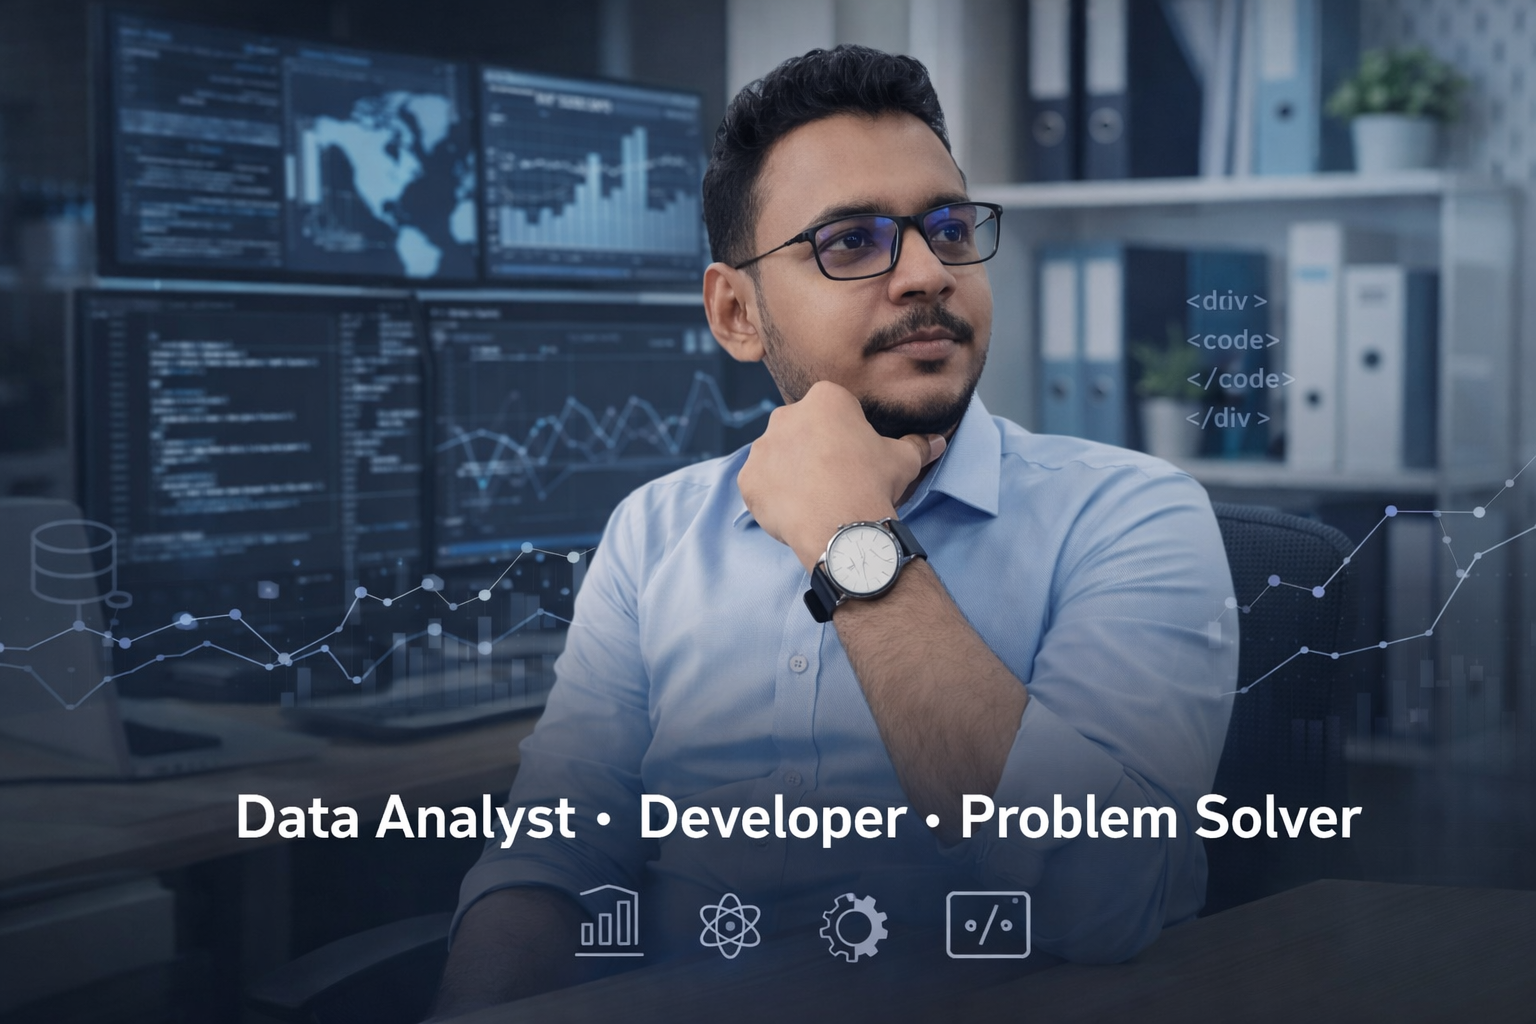
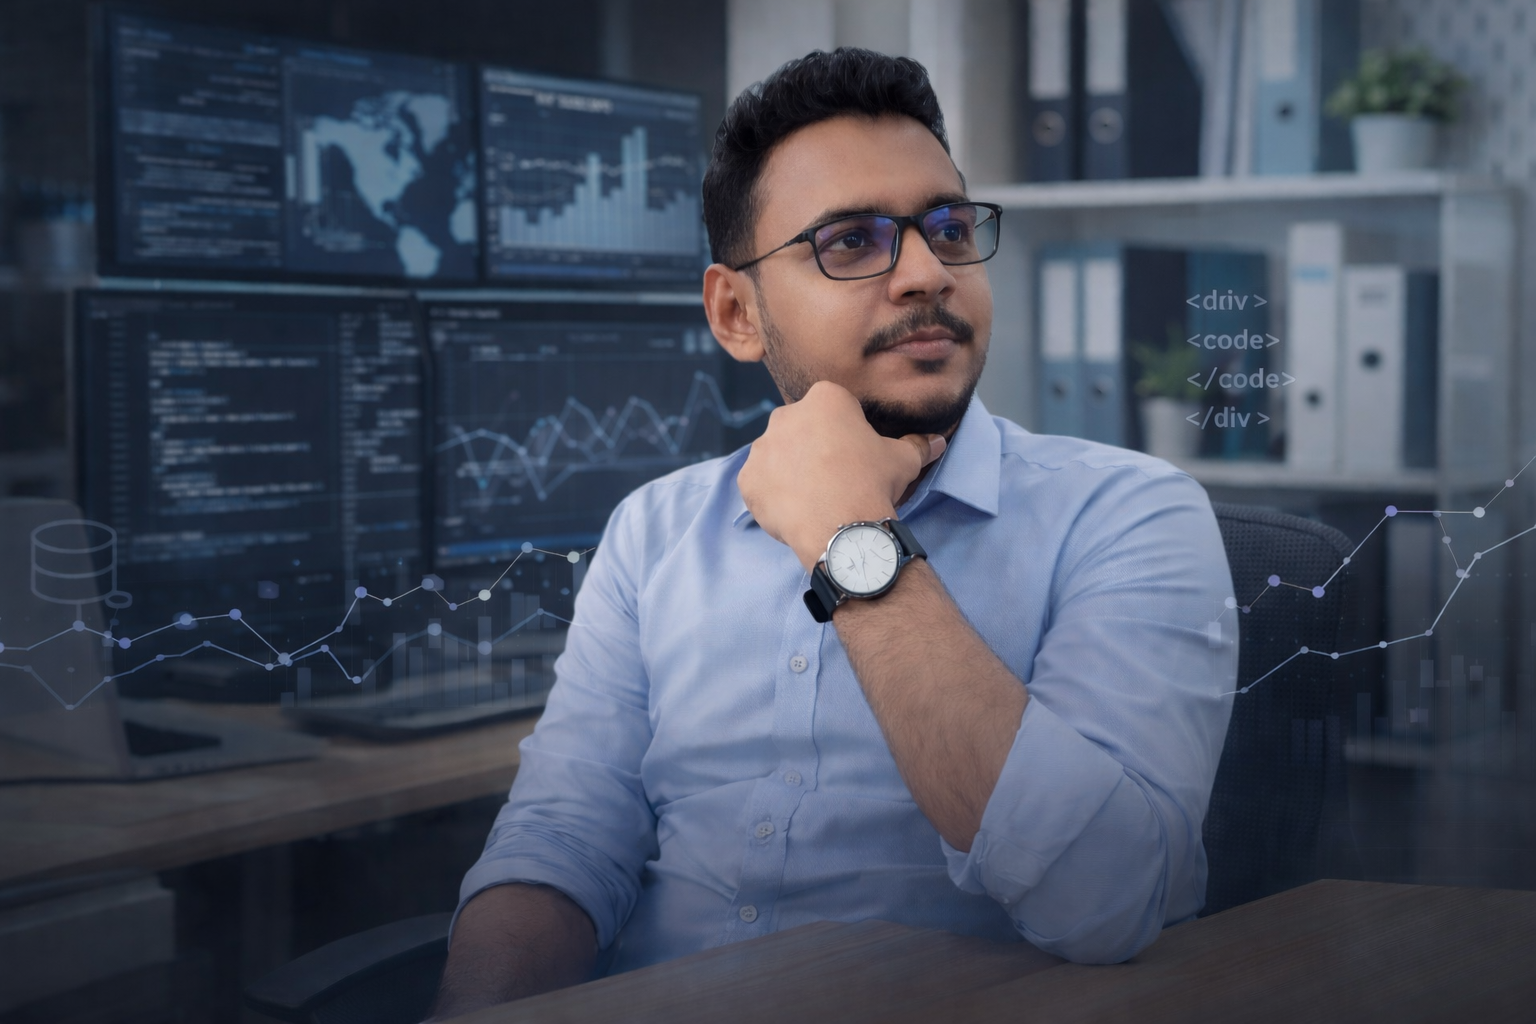
Update portfolio: Add Node.js/Azure skills, fix timeline layout, update social links

diff --git a/src/components/TimelineItem.jsx b/src/components/TimelineItem.jsx
@@ -1,4 +1,3 @@
-// src/components/TimelineItem.jsx
 import React from 'react';
 import { motion } from 'framer-motion';
 
@@ -11,13 +10,16 @@ const TimelineItem = ({ item, index }) => {
       whileInView={{ opacity: 1, x: 0 }}
       viewport={{ once: true }}
       transition={{ duration: 0.6 }}
-      className={`relative flex flex-col md:flex-row gap-8 ${
-        isEven ? 'md:flex-row' : 'md:flex-row-reverse'
-      }`}
+      className="relative flex flex-col md:flex-row gap-8 mb-8"
     >
-      <div className="flex-1 md:text-right">
-        <div className={`glass-card p-6 ${!isEven && 'md:text-left'}`}>
-          <div className="absolute left-1/2 transform -translate-x-1/2 -ml-3 w-6 h-6 rounded-full bg-gradient-to-r from-purple-600 to-blue-600 hidden md:block"></div>
+      {/* Circle icon in the middle - properly positioned */}
+      <div className="absolute left-1/2 transform -translate-x-1/2 hidden md:block z-10">
+        <div className="w-6 h-6 rounded-full bg-gradient-to-r from-purple-600 to-blue-600 ring-4 ring-purple-900/50"></div>
+      </div>
+      
+      {/* Left side for even items, right side for odd items */}
+      <div className={`flex-1 ${isEven ? 'md:text-right md:pr-12' : 'md:pl-12 md:ml-auto'}`}>
+        <div className="glass-card p-6 hover:shadow-xl transition-all duration-300">
           <h3 className="text-xl font-semibold text-white">{item.title}</h3>
           <p className="text-purple-400 text-sm mb-2">{item.period}</p>
           <div className="flex flex-wrap gap-2 mb-3">
@@ -27,15 +29,23 @@ const TimelineItem = ({ item, index }) => {
               </span>
             ))}
           </div>
-          <p className="text-gray-300 text-sm mb-2">{item.problem}</p>
-          <p className="text-gray-400 text-sm">{item.solution}</p>
+          <p className="text-gray-300 text-sm mb-2">
+            <span className="text-purple-400 font-semibold">Problem: </span>
+            {item.problem}
+          </p>
+          <p className="text-gray-300 text-sm mb-2">
+            <span className="text-purple-400 font-semibold">Solution: </span>
+            {item.solution}
+          </p>
           <div className="mt-3 pt-2 border-t border-white/10">
             <span className="text-purple-400 text-sm font-semibold">Impact: </span>
             <span className="text-gray-300 text-sm">{item.impact}</span>
           </div>
         </div>
       </div>
-      <div className="flex-1"></div>
+      
+      {/* Empty div for spacing on the other side */}
+      <div className="flex-1 hidden md:block"></div>
     </motion.div>
   );
 };

diff --git a/src/data/timelineData.js b/src/data/timelineData.js
@@ -1,27 +1,26 @@
-// src/data/timelineData.js
 export const timelineData = [
   {
-    title: 'Freelance Power Platform Developer',
+    title: 'Power Platform & Software Remote Developer',
+    period: '2025 - Present',
+    tools: ['Power Apps', 'Power Automate', 'Node.js', 'Azure'],
+    problem: 'Businesses needing custom automation and scalable solutions',
+    solution: 'Delivered 15+ custom applications, automation workflows, and cloud-native solutions',
+    impact: 'Average 65% efficiency improvement across client projects',
+  },
+  {
+    title: 'Data Analyst | Power Platform Developer',
     period: '2023 - Present',
-    tools: ['Power Apps', 'Power Automate', 'SharePoint', 'Power BI'],
-    problem: 'Businesses struggling with manual processes and disconnected data',
-    solution: 'Delivered 10+ custom applications and automation workflows',
-    impact: 'Average 60% efficiency improvement across client projects',
+    tools: ['Power BI', 'Power Apps', 'Power Automate', 'SharePoint', 'SQL'],
+    problem: 'Organizations needed data-driven insights and process automation',
+    solution: 'Built interactive dashboards, automated workflows, and custom business applications',
+    impact: 'Enabled data-driven decisions saving $1M+ annually, 80% process improvement',
   },
   {
-    title: 'Data Analytics Consultant',
-    period: '2022 - 2023',
-    tools: ['Power BI', 'Excel', 'SQL', 'Python'],
-    problem: 'Organizations lacked actionable insights from their data',
-    solution: 'Built interactive dashboards and automated reporting systems',
-    impact: 'Enabled data-driven decisions saving $500K+ annually',
-  },
-  {
-    title: 'Process Automation Specialist',
-    period: '2021 - 2022',
-    tools: ['Power Automate', 'SharePoint', 'Excel'],
-    problem: 'Repetitive tasks consuming 20+ hours weekly',
-    solution: 'Implemented end-to-end automation for approval workflows',
-    impact: 'Reduced processing time by 80% and eliminated errors',
+    title: 'Process Automation Expert',
+    period: '2020 - 2023',
+    tools: ['Power Automate', 'SharePoint', 'Excel', 'Python'],
+    problem: 'Repetitive manual tasks consuming 30+ hours weekly across departments',
+    solution: 'Implemented enterprise-wide automation for approval workflows, data processing, and reporting',
+    impact: 'Reduced processing time by 85%, eliminated manual errors, saved 2000+ hours annually',
   },
 ];

diff --git a/src/sections/Contact.jsx b/src/sections/Contact.jsx
@@ -1,4 +1,3 @@
-// src/sections/Contact.jsx
 import React, { useState } from 'react';
 import { motion } from 'framer-motion';
 import { Mail, Linkedin, Github, Send, User, MessageSquare } from 'lucide-react';
@@ -125,7 +124,7 @@ const Contact = () => {
               <h3 className="text-xl font-semibold text-white mb-4">Connect With Me</h3>
               <div className="space-y-4">
                 <a
-                  href="https://linkedin.com"
+                  href="https://www.linkedin.com/in/ankan901/"
                   target="_blank"
                   rel="noopener noreferrer"
                   className="flex items-center gap-3 text-gray-300 hover:text-white transition-colors group"
@@ -133,10 +132,10 @@ const Contact = () => {
                   <div className="p-2 rounded-lg bg-purple-600/20 group-hover:bg-purple-600/30 transition-colors">
                     <Linkedin size={20} />
                   </div>
-                  <span>LinkedIn Profile</span>
+                  <span>linkedin.com/in/ankan901</span>
                 </a>
                 <a
-                  href="https://github.com"
+                  href="https://github.com/Ankan901"
                   target="_blank"
                   rel="noopener noreferrer"
                   className="flex items-center gap-3 text-gray-300 hover:text-white transition-colors group"
@@ -144,13 +143,13 @@ const Contact = () => {
                   <div className="p-2 rounded-lg bg-purple-600/20 group-hover:bg-purple-600/30 transition-colors">
                     <Github size={20} />
                   </div>
-                  <span>GitHub Portfolio</span>
+                  <span>github.com/Ankan901</span>
                 </a>
                 <div className="flex items-center gap-3 text-gray-300">
                   <div className="p-2 rounded-lg bg-purple-600/20">
                     <Mail size={20} />
                   </div>
-                  <span>Ankan.Karmakar@outlook.com</span>
+                  <span>ankan.karmakar@example.com</span>
                 </div>
               </div>
             </div>

diff --git a/src/data/skillsData.js b/src/data/skillsData.js
@@ -1,7 +1,16 @@
-// src/data/skillsData.js
 import { BarChart3, AppWindow, Workflow, Code2 } from 'lucide-react';
 
 export const skillsData = [
+  {
+    category: 'App Development',
+    icon: AppWindow,
+    skills: [
+      { name: 'Power Apps', level: 88 },
+      { name: 'SharePoint', level: 85 },
+      { name: 'Node.js', level: 80 },
+      { name: 'Azure Web & Container Apps', level: 75 },
+    ],
+  },
   {
     category: 'Data Analytics',
     icon: BarChart3,
@@ -9,15 +18,7 @@ export const skillsData = [
       { name: 'Power BI', level: 90 },
       { name: 'Excel Advanced', level: 85 },
       { name: 'SQL', level: 75 },
-    ],
-  },
-  {
-    category: 'App Development',
-    icon: AppWindow,
-    skills: [
-      { name: 'Power Apps', level: 88 },
-      { name: 'SharePoint', level: 85 },
-      { name: 'Dataverse', level: 75 },
+      { name: 'Minitab', level: 80 },
     ],
   },
   {
@@ -25,8 +26,9 @@ export const skillsData = [
     icon: Workflow,
     skills: [
       { name: 'Power Automate', level: 87 },
-      { name: 'RPA', level: 70 },
-      { name: 'Logic Apps', level: 65 },
+      { name: 'Azure Logic Apps', level: 75 },
+      { name: 'Shell Scripting', level: 70 },
+      { name: 'UI Path', level: 65 },
     ],
   },
   {
@@ -35,7 +37,8 @@ export const skillsData = [
     skills: [
       { name: 'Python', level: 70 },
       { name: 'DAX', level: 80 },
-      { name: 'Power Query M', level: 85 },
+      { name: 'JavaScript', level: 75 },
+      { name: 'Node.js', level: 70 },
     ],
   },
 ];

diff --git a/src/data/projectsData.js b/src/data/projectsData.js
@@ -1,4 +1,3 @@
-// src/data/projectsData.js
 export const projectsData = [
   {
     id: 1,
@@ -35,14 +34,14 @@ export const projectsData = [
   },
   {
     id: 4,
-    title: 'Safety Validation App (Mobile)',
-    description: 'Mobile-responsive Power Apps solution for field safety validation checks with offline capabilities.',
-    techStack: ['Power Apps', 'Dataverse', 'Power Automate'],
-    impact: 'Real-time validation, 60% faster field inspections',
+    title: 'Node.js with Azure Container App - Automated PDF Report System',
+    description: 'Enterprise-grade automated PDF reporting system for machine risk assessment, deployed on Azure Container Apps with Node.js backend.',
+    techStack: ['Node.js', 'Azure Container Apps', 'Docker', 'PDF Generation'],
+    impact: 'Automated report generation, 70% faster document processing, real-time risk assessment',
     liveDemo: '#',
     github: '#',
-    challenge: 'Field teams needed offline access for safety checks in remote locations.',
-    solution: 'Built offline-capable canvas app with sync capabilities and automated alert system.',
+    challenge: 'Manual PDF report creation for machine risk assessments was slow and inconsistent.',
+    solution: 'Built Node.js microservice with PDF generation, containerized with Docker, deployed on Azure Container Apps with auto-scaling.',
   },
   {
     id: 5,

diff --git a/src/sections/Hero.jsx b/src/sections/Hero.jsx
@@ -75,7 +75,7 @@ const Hero = () => {
 
               <div className="flex justify-center lg:justify-start gap-6 mt-12">
                 <a
-                  href="https://linkedin.com"
+                  href="https://www.linkedin.com/in/ankan901/"
                   target="_blank"
                   rel="noopener noreferrer"
                   className="text-gray-400 hover:text-white transition-colors"
@@ -83,7 +83,7 @@ const Hero = () => {
                   <Linkedin size={24} />
                 </a>
                 <a
-                  href="https://github.com"
+                  href="https://github.com/Ankan901"
                   target="_blank"
                   rel="noopener noreferrer"
                   className="text-gray-400 hover:text-white transition-colors"

diff --git a/src/data/servicesData.js b/src/data/servicesData.js
@@ -1,5 +1,4 @@
-// src/data/servicesData.js
-import { LayoutDashboard, Sparkles, Workflow } from 'lucide-react';
+import { LayoutDashboard, Sparkles, Workflow, Server } from 'lucide-react';
 
 export const servicesData = [
   {
@@ -19,5 +18,11 @@ export const servicesData = [
     title: 'Process Automation',
     description: 'End-to-end automation solutions using Power Automate',
     features: ['Approval workflows', 'Email automation', 'Data synchronization', 'Scheduled tasks'],
+  },
+  {
+    icon: Server,
+    title: 'Node.js & Azure App Development',
+    description: 'Scalable cloud-native applications and containerized solutions',
+    features: ['Node.js APIs', 'Azure Container Apps', 'Microservices', 'Cloud deployment'],
   },
 ];

diff --git a/src/sections/Experience.jsx b/src/sections/Experience.jsx
@@ -1,4 +1,3 @@
-// src/sections/Experience.jsx
 import React from 'react';
 import { motion } from 'framer-motion';
 import TimelineItem from '../components/TimelineItem';
@@ -23,8 +22,10 @@ const Experience = () => {
         </motion.div>
 
         <div className="relative">
+          {/* Vertical line in the middle */}
           <div className="absolute left-1/2 transform -translate-x-1/2 w-0.5 h-full bg-gradient-to-b from-purple-600 to-blue-600 hidden md:block"></div>
-          <div className="space-y-8">
+          
+          <div className="space-y-12">
             {timelineData.map((item, idx) => (
               <TimelineItem key={idx} item={item} index={idx} />
             ))}

diff --git a/src/components/Footer.jsx b/src/components/Footer.jsx
@@ -6,7 +6,7 @@ const Footer = () => {
     <footer className="py-8 px-4 border-t border-white/10">
       <div className="max-w-7xl mx-auto text-center">
         <p className="text-gray-400 text-sm flex items-center justify-center gap-1">
-          Made with <Heart size={14} className="text-blue-500 fill-blue-500" /> by <span className="text-purple-400">Ankan Karmakar</span>
+          {/* Made with <Heart size={14} className="text-blue-500 fill-blue-500" /> by <span className="text-purple-400">Ankan Karmakar</span> */}
         </p>
         <p className="text-gray-500 text-xs mt-2">© 2026 Ankan Karmakar | Data Analyst & Power Platform Developer</p>
       </div>
